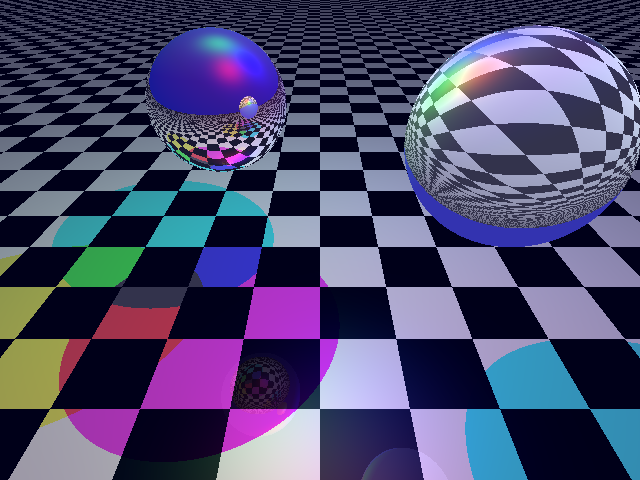
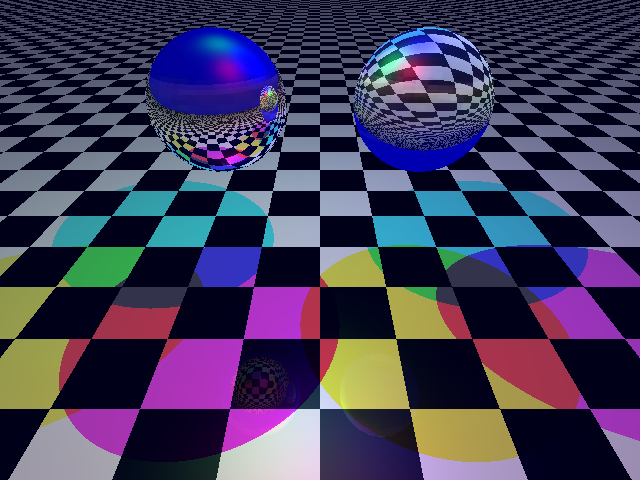
Add files via upload

diff --git a/esfera.py b/esfera.py
@@ -3,51 +3,83 @@ from normalização import normalized
 import numpy
 from cmath import sqrt
 from rayhit import rayhit
+from PIL import Image
 
 class sphere(scene_object):
 
-    def __init__(self, position = [0,0,0], radius = 1, color = (255,0,0), ka=1, kd=1, ks=1, phongN=1, kr=0, kt=0, refN = 1):
+    def __init__(self, position = [0,0,0], radius = 1, color = (255,0,0), ka=1, kd=1, ks=1, phongN=1, kr=0, kt=0, refN = 1, texture_file=None):
         self.radius = radius
+        self.texture = None
+        
         super().__init__(position, color, ka, kd, ks, phongN, kr, kt, refN)
+        
+        if texture_file is not None:
+            print("ola mundo")
+            self.texture = Image.open(texture_file)
+        else: 
+            self.texture = None
     
     def getNormal(self, p):
         return normalized(p - self.position)
     
     def getColor(self, p):
-        return super().getColor(p)
+        if self.texture:
+            # Mapeando as coordenadas de textura para as coordenadas 3D da esfera
+            # utilizando a fórmula da esfera paramétrica
+            u, v = self.getTextCoords(p)
+            x = self.radius * numpy.sin(u) * numpy.cos(v)
+            y = self.radius * numpy.sin(u) * numpy.sin(v)
+            z = self.radius * numpy.cos(u)
+            tex_x = int((v / (2 * numpy.pi)) * self.texture.width) % self.texture.width
+            tex_y = int((u / numpy.pi) * self.texture.height) % self.texture.height
+            color = self.texture.getpixel((tex_x, tex_y))
+        else:
+            color = super().getColor(p)
+        return color
     
     def intersection(self, origin, direction):
-        #formula para interseção demonstrada no stratchapixel.com
+        # formula para interseção demonstrada no stratchapixel.com
         l = self.position - origin
-        
-        tca = numpy.dot(l,direction)
+
+        tca = numpy.dot(l, direction)
 
         if tca < 0:
             return 0
-        
-        pitagoras = pow(numpy.linalg.norm(l) ,2) - pow(tca,2)
+
+        pitagoras = pow(numpy.linalg.norm(l), 2) - pow(tca, 2)
         if pitagoras < 0:
             return 0
         d = sqrt(pitagoras)
-        
+
         if d.real < 0.0:
             return 0
         elif d.real > self.radius:
             return 0
         else:
-            thc = sqrt(pow(self.radius,2) - pow(d,2))
+            thc = sqrt(pow(self.radius, 2) - pow(d, 2))
 
             # buscamos a colisao mais proxima
             hitDist = numpy.minimum(tca - thc, tca + thc)
-            
-            # mas, se estamos dentro da esfera significa que o raio acabou de entrar na esfera, logo usamos a colisao mais distance
-            if numpy.linalg.norm(l) < self.radius: 
-                hitDist = numpy.maximum(tca-thc,tca+thc)
+
+            # mas, se estamos dentro da esfera significa que o raio acabou de entrar na esfera,
+            # logo usamos a colisao mais distance
+            if numpy.linalg.norm(l) < self.radius:
+                hitDist = numpy.maximum(tca - thc, tca + thc)
 
             hitPoint = origin + direction * hitDist
 
             normal = self.getNormal(hitPoint)
 
             color = self.getColor(hitPoint)
-            
+
             return rayhit(self, hitPoint, normal, hitDist, color, hitPoint - origin)
+
+    def getTextCoords(self, p):
+        x, y, z = p - self.position
+        r = numpy.linalg.norm([x, y, z])
+        if r == 0:
+            return 0, 0
+        u = numpy.arccos(z / r).astype(float)
+        v = (numpy.arctan(x / y) + numpy.pi).astype(float)
+        
+        return u / numpy.pi, v / (2 * numpy.pi)

diff --git a/main.py b/main.py
@@ -8,8 +8,6 @@ from plane import plane
 from piso import piso
 from color_fuctions import colorDenormalize,colorMul,colorNormalize,colorScale,colorSum
 from reflexão_e_refração import reflect,refract
-    
-
 class scene_main:
     def __init__(self):
         
@@ -24,8 +22,8 @@ class scene_main:
     def getBackground_Color(self):
         return self.bg_color
 
-    def addSphere(self, position, radius, color, ka, kd, ks, phongN, kr, kt, refN):
-        self.objs.append(sphere(position, radius, color, ka, kd, ks, phongN, kr, kt, refN))
+    def addSphere(self, position, radius, color, ka, kd, ks, phongN, kr, kt, refN, texture_file):
+        self.objs.append(sphere(position, radius, color, ka, kd, ks, phongN, kr, kt, refN, texture_file))
     
     def addPlane(self, position, normal, color, ka, kd, ks, phongN, kr, kt, refN):
         self.objs.append(plane(position, normal, color, ka, kd, ks, phongN, kr, kt, refN))
@@ -319,8 +317,8 @@ if __name__ == '__main__':
         if obj_select == '*':
             radius = float(inputs[index])
             index +=1
-
-            new_scene.addSphere(position, radius, color, ka, kd, ks, phongN, kr, kt, refN)
+            texture = "texturas/terra.jpg"
+            new_scene.addSphere(position, radius, color, ka, kd, ks, phongN, kr, kt, refN, texture)
         elif obj_select == '/':
             normal_x = float(inputs[index])
             index +=1

diff --git a/README.md b/README.md
@@ -7,36 +7,36 @@ Projeto para a disciplina de Processamento Gráfico
 
 # Como Usar o Projeto
 ## O projeto é divido em classes então para os nossos objetos:
-1 - Esfera, Essa como o próprio nome indica é responsável pela a criação dos objetos esfera em nossas cenas.<br/>
-2 - Cena Objeto, Que se trata de nossa classe principal para redenrizar objetos na cena.<br/>
-3 - Ray hit, Também é um nome sugestivo e indica a classe responsavel por gerênciar quando ah ou não um intersecção(hit) entre raios e os objetos da cena.<br/>
-4 - Piso, Que é responsavel por criar a malha quadriculada abaixo das esferas.<br/>
+1 - Esfera, Essa como o próprio nome indica é responsável pela a criação dos objetos esfera em nossas cenas.
+2 - Cena Objeto, Que se trata de nossa classe principal para redenrizar objetos na cena.
+3 - Ray hit, Também é um nome sugestivo e indica a classe responsavel por gerênciar quando ah ou não um intersecção(hit) entre raios e os objetos da cena.
+4 - Piso, Que é responsavel por criar a malha quadriculada abaixo das esferas.
 
 ## Alem das classes também existem funções auxiliares 
-1 - color_fuctions, responsavel por fazer a soma, multiplicação por escalares e converter do padrão de 0 ate 1.0, para o padrão 0 a 255.<br/>
-2 - reflexão e refração, responsavel por calcular as reflexões dos objetos e a refração do objeto.<br/>
-3 - normalização, responsavel por criar a normal quando necessário.<br/>
+1 - color_fuctions, responsavel por fazer a soma, multiplicação por escalares e converter do padrão de 0 ate 1.0, para o padrão 0 a 255.
+2 - reflexão e refração, responsavel por calcular as reflexões dos objetos e a refração do objeto.
+3 - normalização, responsavel por criar a normal quando necessário.
 
 ## Pasta Entradas
 Dentro dessa pasta existem vários arquivos de input com variações de nossas cenas, nos inputs de 1 a 3, apenas variamos a sombra das esferas e suas interções
 Nos inputs de 4 a 6 variamos a posição das esferas.
 
 ## Explicando como funciona o aquivo de entrada
-primeira linha: contem a dimensão da imagem a maioria dos arquivos é 480 X 640, lembrando que a primeira é y e a segunda x.<br/>
-segunda linha: Define o tamanho do pixel e a distância focal da câmera.<br/>
-terceira linha: Define a posição da câmera no espaço tridimensional (x, y, z).<br/>
-quarta linha: Define a direção para a qual a câmera está apontando (vetor de olhar).<br/>
-quinta linha: Define a orientação "para cima" da câmera.<br/>
-sexta linha: Define a distância da câmera ao plano de imagem.<br/>
-setima linha: Define o número de luzes na cena.<br/>
-oitava linha: Define o número de objetos na cena.<br/>
-nona linha: Define a primeira esfera na cena. Os valores são: posição x, posição y, posição z, coeficiente de reflexão ambiente (ka), coeficiente de reflexão difusa (kd), coeficiente de reflexão especular (ks), expoente especular (phongN), coeficiente de reflexão especular transparente (kr), coeficiente de transmissão transparente (kt), índice de refração (refN), operador de transformação (rot/scale/translate), valor 1, valor 2, valor 3.<br/>
-decima linha: Define a segunda esfera na cena. A sintaxe é a mesma que na linha anterior.<br/>
-decima primeira linha: Define um objeto retangular na cena. Os valores são: cor vermelha, verde e azul (RGB), coeficiente de reflexão ambiente (ka), coeficiente de reflexão difusa (kd), coeficiente de reflexão especular (ks), expoente especular (phongN), coeficiente de reflexão especular transparente (kr), coeficiente de transmissão transparente (kt), índice de refração (refN), operador de transformação (rot/scale/translate), valor 1, valor 2, valor 3, valor 4, valor 5, valor 6.<br/>
-decima segunda linha: Define a cor de fundo da cena (RGB).<br/>
-decima terceira linha: Numero de luzes na cenas.<br/>
-decima quarta linha: especificam a posição e cor Cada linha tem 6 valores: o primeiro é a intensidade vermelha da luz, o segundo é a intensidade verde, o terceiro é a intensidade azul, o quarto é a posição da luz no eixo x, o quinto é a posição da luz no eixo y e o sexto é a posição da luz no eixo z.<br/>
-decima quinta e sexta: mesma sintaxe.<br/>
+primeira linha: contem a dimensão da imagem a maioria dos arquivos é 480 X 640, lembrando que a primeira é y e a segunda x.
+segunda linha: Define o tamanho do pixel e a distância focal da câmera.
+terceira linha: Define a posição da câmera no espaço tridimensional (x, y, z).
+quarta linha: Define a direção para a qual a câmera está apontando (vetor de olhar).
+quinta linha: Define a orientação "para cima" da câmera.
+sexta linha: Define a distância da câmera ao plano de imagem.
+setima linha: Define o número de luzes na cena.
+oitava linha: Define o número de objetos na cena.
+nona linha: Define a primeira esfera na cena. Os valores são: posição x, posição y, posição z, coeficiente de reflexão ambiente (ka), coeficiente de reflexão difusa (kd), coeficiente de reflexão especular (ks), expoente especular (phongN), coeficiente de reflexão especular transparente (kr), coeficiente de transmissão transparente (kt), índice de refração (refN), operador de transformação (rot/scale/translate), valor 1, valor 2, valor 3.
+decima linha: Define a segunda esfera na cena. A sintaxe é a mesma que na linha anterior.
+decima primeira linha: Define um objeto retangular na cena. Os valores são: cor vermelha, verde e azul (RGB), coeficiente de reflexão ambiente (ka), coeficiente de reflexão difusa (kd), coeficiente de reflexão especular (ks), expoente especular (phongN), coeficiente de reflexão especular transparente (kr), coeficiente de transmissão transparente (kt), índice de refração (refN), operador de transformação (rot/scale/translate), valor 1, valor 2, valor 3, valor 4, valor 5, valor 6.
+decima segunda linha: Define a cor de fundo da cena (RGB).
+decima terceira linha: Numero de luzes na cenas.
+decima quarta linha: especificam a posição e cor Cada linha tem 6 valores: o primeiro é a intensidade vermelha da luz, o segundo é a intensidade verde, o terceiro é a intensidade azul, o quarto é a posição da luz no eixo x, o quinto é a posição da luz no eixo y e o sexto é a posição da luz no eixo z.
+decima quinta e sexta: mesma sintaxe.
 
 # Para rodar
 Utilize o arquivo main.py e escolha uma entrada ou faça a sua e coloque no arquivo input, divirta-se!!
